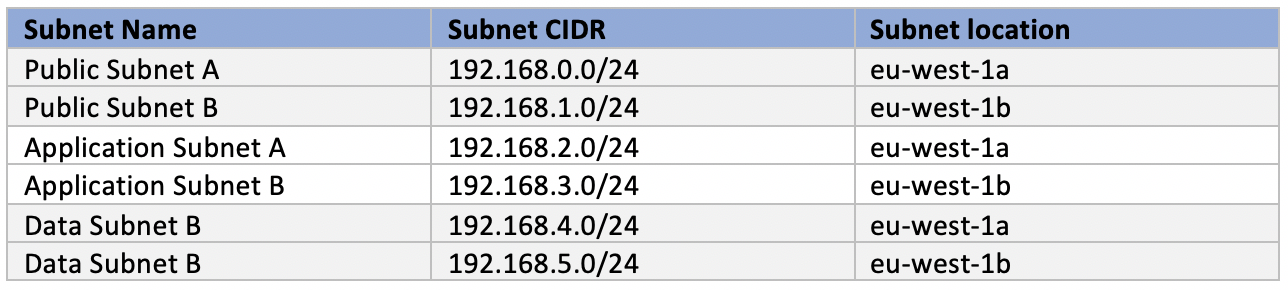
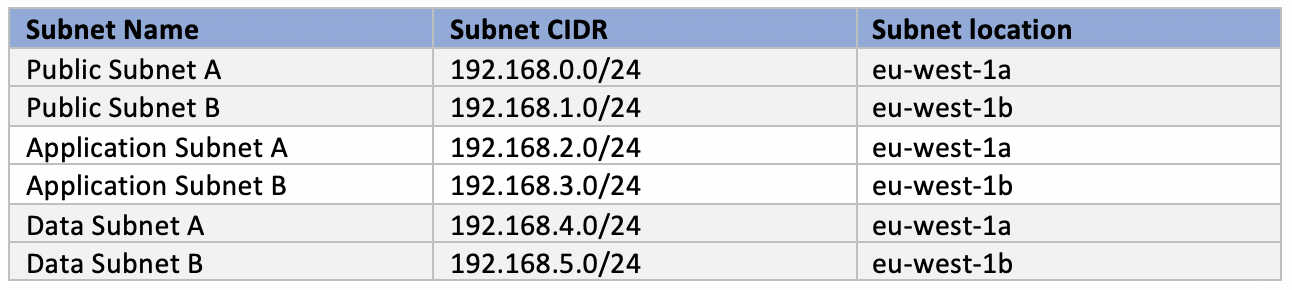
fixes

diff --git a/content/database/lab3.md b/content/database/lab3.md
@@ -9,7 +9,7 @@ To get started with Elasticache, open its dashboard by searching for the service
 
 ![Figure 1](/images/ec1.png)
 
-Then click on **Advanced Memcached settings** and make sure you create a new subnet group consisting of the Application subnets of both availability zones:
+Then click on **Advanced Memcached settings** and make sure you create a new subnet group consisting of the Data subnets of both availability zones:
 
 ![Figure 2](/images/ec2.png)
 
